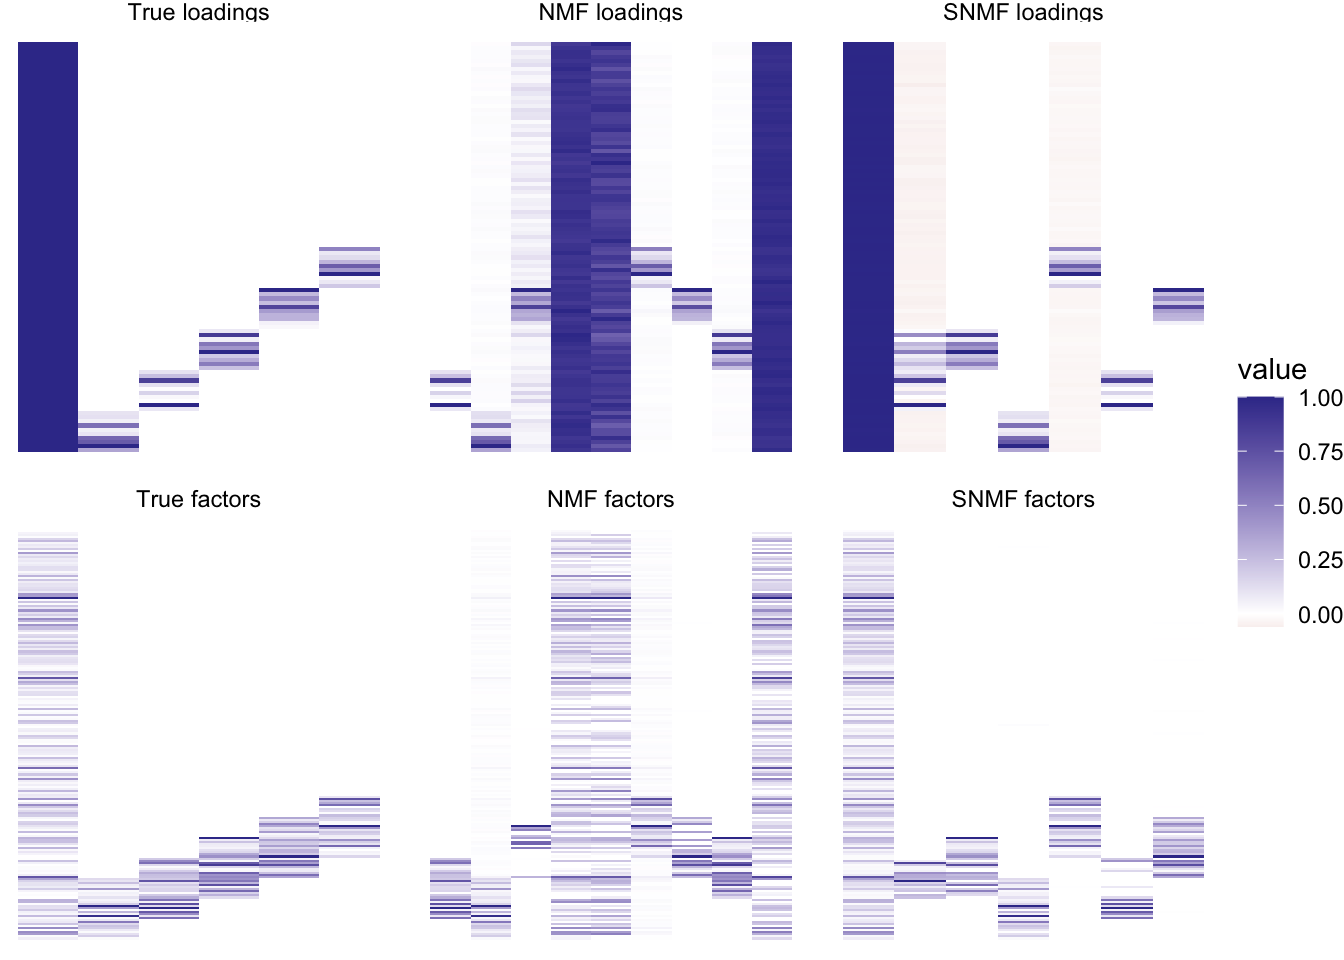
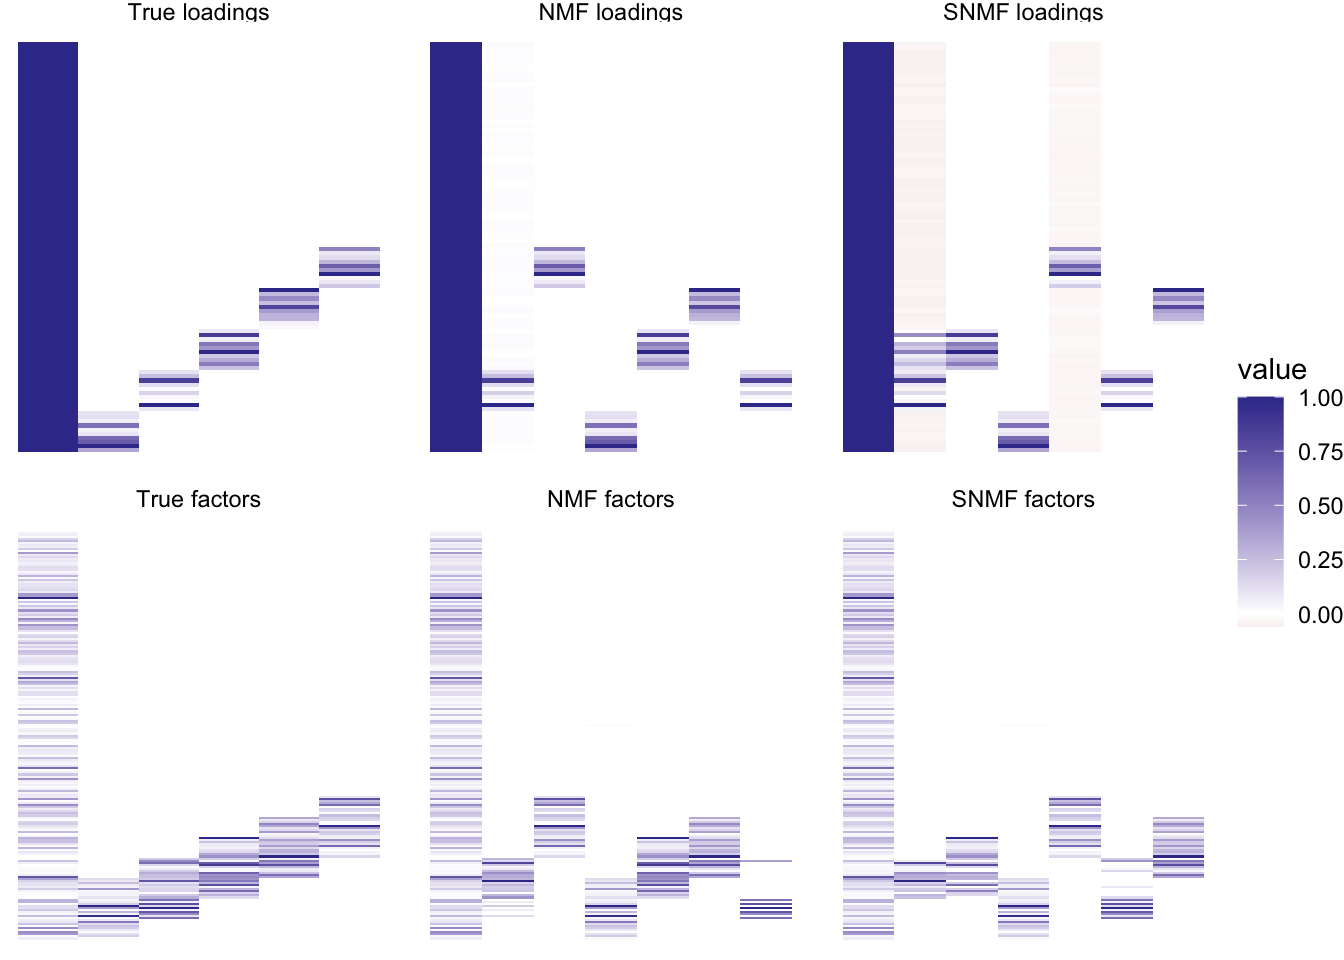
Build site.

Changed region(s): [[0.3125, 0.0312, 0.5938, 0.4688], [0.3125, 0.5312, 0.5938, 1.0]]

diff --git a/docs/snmf_on_nmf.html b/docs/snmf_on_nmf.html
@@ -483,16 +483,16 @@ This reproducible <a href="http://rmarkdown.rstudio.com">R Markdown</a> analysis
 <div class="panel panel-default">
 <div class="panel-heading">
 <p class="panel-title">
-<a data-toggle="collapse" data-parent="#workflowr-checks" href="#strongRepositoryversionstrongahrefhttpsgithubcomwillwerscheidscFLASHtree73c4bb2cfdf412dad085d9bfeefd59b2165432ddtargetblank73c4bb2a"> <span class="glyphicon glyphicon-ok text-success" aria-hidden="true"></span> <strong>Repository version:</strong> <a href="https://github.com/willwerscheid/scFLASH/tree/73c4bb2cfdf412dad085d9bfeefd59b2165432dd" target="_blank">73c4bb2</a> </a>
+<a data-toggle="collapse" data-parent="#workflowr-checks" href="#strongRepositoryversionstrongahrefhttpsgithubcomwillwerscheidscFLASHtree1611b1a8a55fcd1d92c9585c279f74369c1633b4targetblank1611b1aa"> <span class="glyphicon glyphicon-ok text-success" aria-hidden="true"></span> <strong>Repository version:</strong> <a href="https://github.com/willwerscheid/scFLASH/tree/1611b1a8a55fcd1d92c9585c279f74369c1633b4" target="_blank">1611b1a</a> </a>
 </p>
 </div>
[2 lines of base64/hex data omitted]
 <div class="panel-body">
 <p>
 Great! You are using Git for version control. Tracking code development and connecting the code version to the results is critical for reproducibility.
 </p>
 <p>
-The results in this page were generated with repository version <a href="https://github.com/willwerscheid/scFLASH/tree/73c4bb2cfdf412dad085d9bfeefd59b2165432dd" target="_blank">73c4bb2</a>. See the <em>Past versions</em> tab to see a history of the changes made to the R Markdown and HTML files.
+The results in this page were generated with repository version <a href="https://github.com/willwerscheid/scFLASH/tree/1611b1a8a55fcd1d92c9585c279f74369c1633b4" target="_blank">1611b1a</a>. See the <em>Past versions</em> tab to see a history of the changes made to the R Markdown and HTML files.
 </p>
 <p>
 Note that you need to be careful to ensure that all relevant files for the analysis have been committed to Git prior to generating the results (you can use <code>wflow_publish</code> or <code>wflow_git_commit</code>). workflowr only checks the R Markdown file, but you know if there are other scripts or data files that it depends on. Below is the status of the Git repository when the results were generated:
@@ -580,6 +580,40 @@ Message
 </tr>
 </thead>
 <tbody>
+<tr>
+<td>
+Rmd
+</td>
+<td>
+<a href="https://github.com/willwerscheid/scFLASH/blob/1611b1a8a55fcd1d92c9585c279f74369c1633b4/analysis/snmf_on_nmf.Rmd" target="_blank">1611b1a</a>
+</td>
+<td>
+Jason Willwerscheid
+</td>
+<td>
+2022-03-25
+</td>
+<td>
+wflow_publish(“./analysis/snmf_on_nmf.Rmd”)
+</td>
+</tr>
+<tr>
+<td>
+html
+</td>
+<td>
+<a href="https://rawcdn.githack.com/willwerscheid/scFLASH/12703e14ab22cf6431b61a4b1f0defcba5772684/docs/snmf_on_nmf.html" target="_blank">12703e1</a>
+</td>
+<td>
+Jason Willwerscheid
+</td>
+<td>
+2022-03-25
+</td>
+<td>
+Build site.
+</td>
+</tr>
 <tr>
 <td>
 Rmd
@@ -768,6 +802,17 @@ Date
 <tbody>
 <tr>
 <td>
+<a href="https://github.com/willwerscheid/scFLASH/blob/12703e14ab22cf6431b61a4b1f0defcba5772684/docs/figure/snmf_on_nmf.Rmd/sim1_trueK-1.png" target="_blank">12703e1</a>
+</td>
+<td>
+Jason Willwerscheid
+</td>
+<td>
+2022-03-25
+</td>
+</tr>
+<tr>
+<td>
 <a href="https://github.com/willwerscheid/scFLASH/blob/cbf2aff84e4d423a62c0ea4d0e2658d0359b0edf/docs/figure/snmf_on_nmf.Rmd/sim1_trueK-1.png" target="_blank">cbf2aff</a>
 </td>
 <td>
@@ -820,6 +865,17 @@ Date
 <tbody>
 <tr>
 <td>
+<a href="https://github.com/willwerscheid/scFLASH/blob/12703e14ab22cf6431b61a4b1f0defcba5772684/docs/figure/snmf_on_nmf.Rmd/sim1_nottrueK-1.png" target="_blank">12703e1</a>
+</td>
+<td>
+Jason Willwerscheid
+</td>
+<td>
+2022-03-25
+</td>
+</tr>
+<tr>
+<td>
 <a href="https://github.com/willwerscheid/scFLASH/blob/cbf2aff84e4d423a62c0ea4d0e2658d0359b0edf/docs/figure/snmf_on_nmf.Rmd/sim1_nottrueK-1.png" target="_blank">cbf2aff</a>
 </td>
 <td>
@@ -833,25 +889,58 @@ Jason Willwerscheid
 </table>
 </div>
 </div>
-<p>SNMF (almost) recovers the correct number of factors, which NMF is of course unable to do. If, however, I initialize EBMF using the NMF fit and then backfit using point-exponential priors, I get a better NMF fit:</p>
+<p>SNMF (almost) recovers the correct number of factors, which NMF is of course unable to do. Interestingly, however, if I use EBMF to fit NMF, I get approximately the same fit as SNMF:</p>
 <pre class="r"><code>nnmf_res1c &lt;- flash.init(sim1$Y) %&gt;%
   flash.set.verbose(0) %&gt;%
-  flash.init.factors(
-    list(nnmf_res1b$W, t(nnmf_res1b$H)),
-    ebnm.fn = ebnm::ebnm_point_exponential
+  flash.add.greedy(
+    Kmax = 10,
+    ebnm.fn = ebnm::ebnm_point_exponential,
+    init.fn = function(fl) init.fn.default(fl, dim.signs = c(1, 1))
   ) %&gt;%
-  flash.backfit(maxiter = 200) %&gt;%
-  flash.nullcheck() %&gt;%
   flash.backfit() %&gt;%
   flash.nullcheck()
-#&gt; Warning in report.maxiter.reached(verbose.lvl): Maximum number of iterations
-#&gt; reached.
-
-#&gt; Warning in report.maxiter.reached(verbose.lvl): Maximum number of iterations
-#&gt; reached.
+#&gt; Warning in scale.EF(EF): Fitting stopped after the initialization function
+#&gt; failed to find a non-zero factor.
 
 plot_it(sim1, nnmf_res1c, snmf_res1b)</code></pre>
 <p><img src="figure/snmf_on_nmf.Rmd/sim1_nnebmf-1.png" width="672" style="display: block; margin: auto;" /></p>
+<p>
+<button type="button" class="btn btn-default btn-xs btn-workflowr btn-workflowr-fig" data-toggle="collapse" data-target="#fig-sim1_nnebmf-1">
+Past versions of sim1_nnebmf-1.png
+</button>
+</p>
+<div id="fig-sim1_nnebmf-1" class="collapse">
+<div class="table-responsive">
+<table class="table table-condensed table-hover">
+<thead>
+<tr>
+<th>
+Version
+</th>
+<th>
+Author
+</th>
+<th>
+Date
+</th>
+</tr>
+</thead>
+<tbody>
+<tr>
+<td>
+<a href="https://github.com/willwerscheid/scFLASH/blob/12703e14ab22cf6431b61a4b1f0defcba5772684/docs/figure/snmf_on_nmf.Rmd/sim1_nnebmf-1.png" target="_blank">12703e1</a>
+</td>
+<td>
+Jason Willwerscheid
+</td>
+<td>
+2022-03-25
+</td>
+</tr>
+</tbody>
+</table>
+</div>
+</div>
 <p>Finally I make the simulation scenario a bit more difficult (more noise, less sparsity, additional dense factors) and try again with the correct number of factors:</p>
 <pre class="r"><code>sim2 &lt;- sim_data(K = 8, se = 1, L.nn = 20, F.nn = 40, K.dense = 3)
 
@@ -892,6 +981,17 @@ Date
 <tbody>
 <tr>
 <td>
+<a href="https://github.com/willwerscheid/scFLASH/blob/12703e14ab22cf6431b61a4b1f0defcba5772684/docs/figure/snmf_on_nmf.Rmd/sim2-1.png" target="_blank">12703e1</a>
+</td>
+<td>
+Jason Willwerscheid
+</td>
+<td>
+2022-03-25
+</td>
+</tr>
+<tr>
+<td>
 <a href="https://github.com/willwerscheid/scFLASH/blob/cbf2aff84e4d423a62c0ea4d0e2658d0359b0edf/docs/figure/snmf_on_nmf.Rmd/sim2-1.png" target="_blank">cbf2aff</a>
 </td>
 <td>
@@ -906,6 +1006,19 @@ Jason Willwerscheid
 </div>
 </div>
 <p>SNMF again does quite a bit better on the sparse factors, but the dense factors now show a mixture of positive and negative loadings.</p>
+<p>I try this more complex scenario again but use EBMF to fit NMF:</p>
+<pre class="r"><code>nnmf_res2b &lt;- flash.init(sim2$Y) %&gt;%
+  flash.set.verbose(0) %&gt;%
+  flash.add.greedy(
+    Kmax = 8,
+    ebnm.fn = ebnm::ebnm_point_exponential,
+    init.fn = function(fl) init.fn.default(fl, dim.signs = c(1, 1))
+  ) %&gt;%
+  flash.backfit() %&gt;%
+  flash.nullcheck()
+
+plot_it(sim2, nnmf_res2b, snmf_res2)</code></pre>
+<p><img src="figure/snmf_on_nmf.Rmd/sim2b-1.png" width="672" style="display: block; margin: auto;" /></p>
 <br>
 <p>
 <button type="button" class="btn btn-default btn-workflowr btn-workflowr-sessioninfo" data-toggle="collapse" data-target="#workflowr-sessioninfo" style="display: block;">
